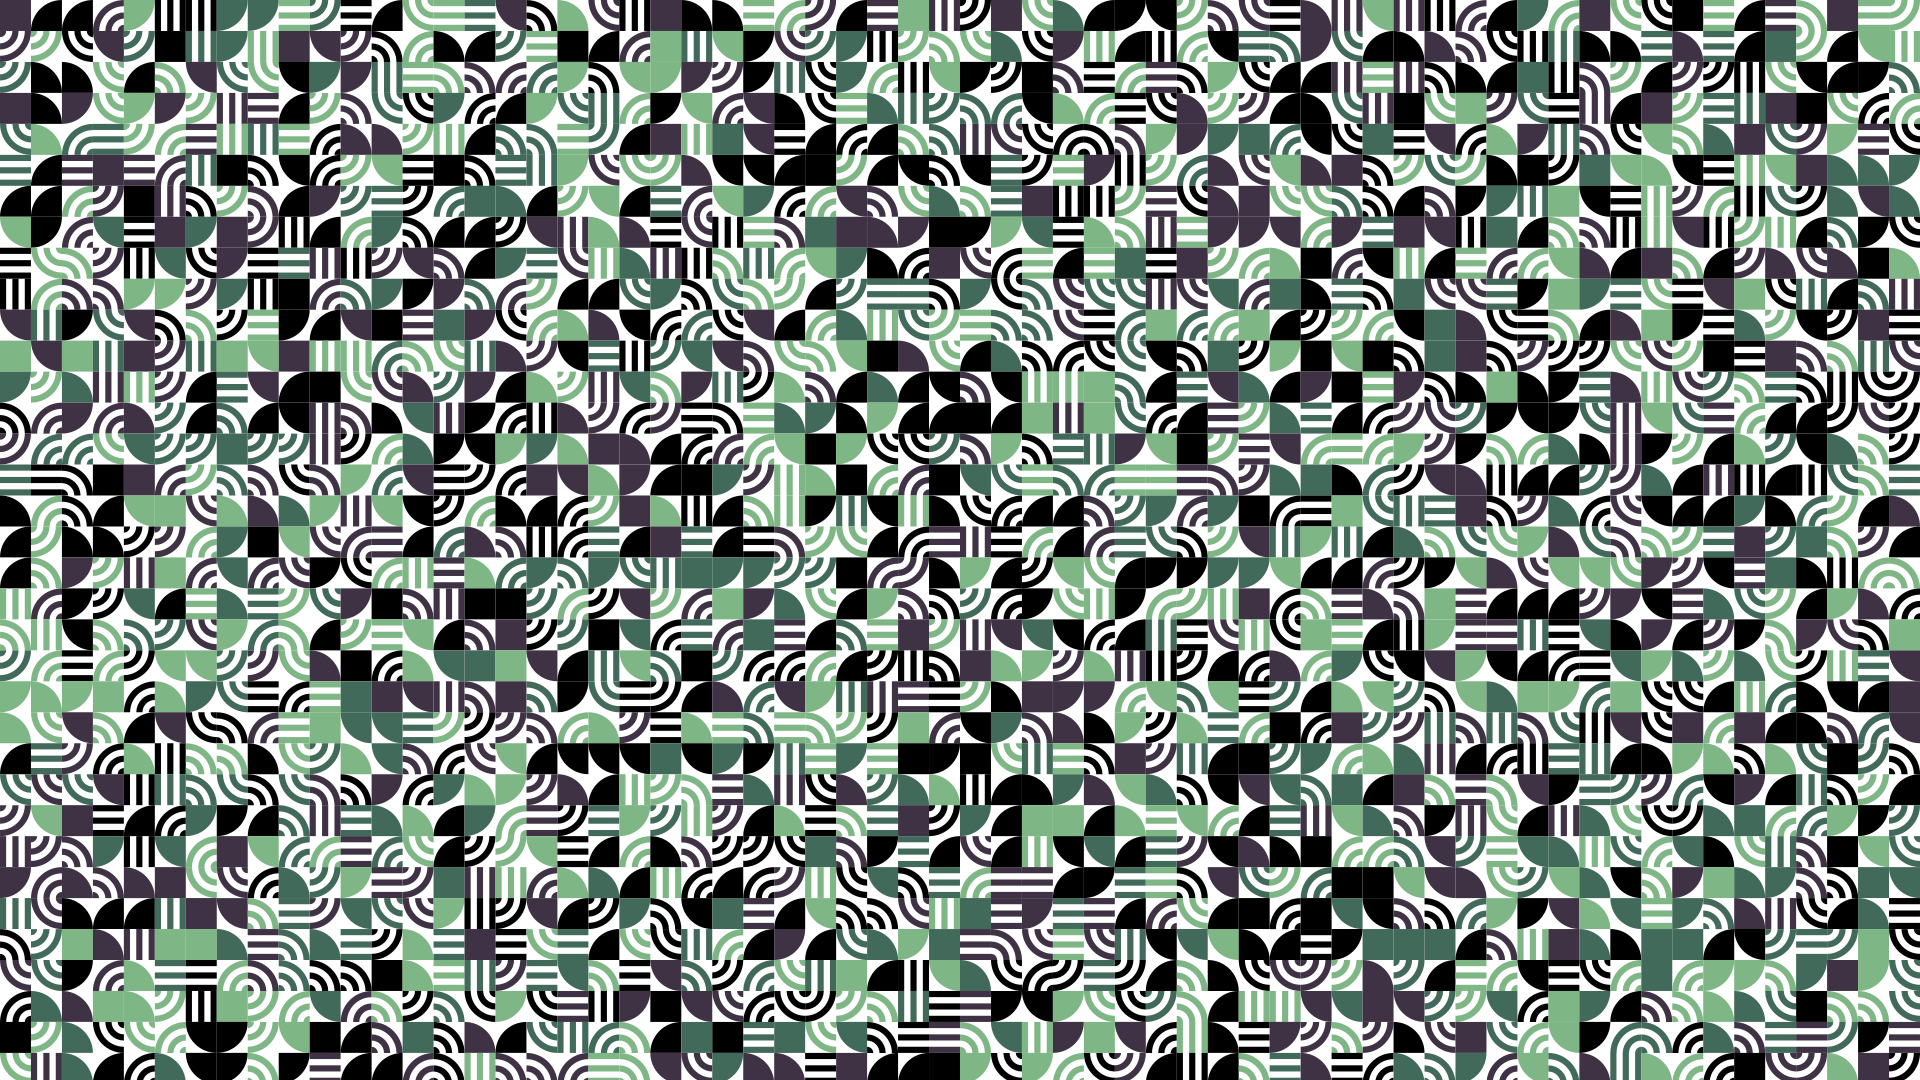
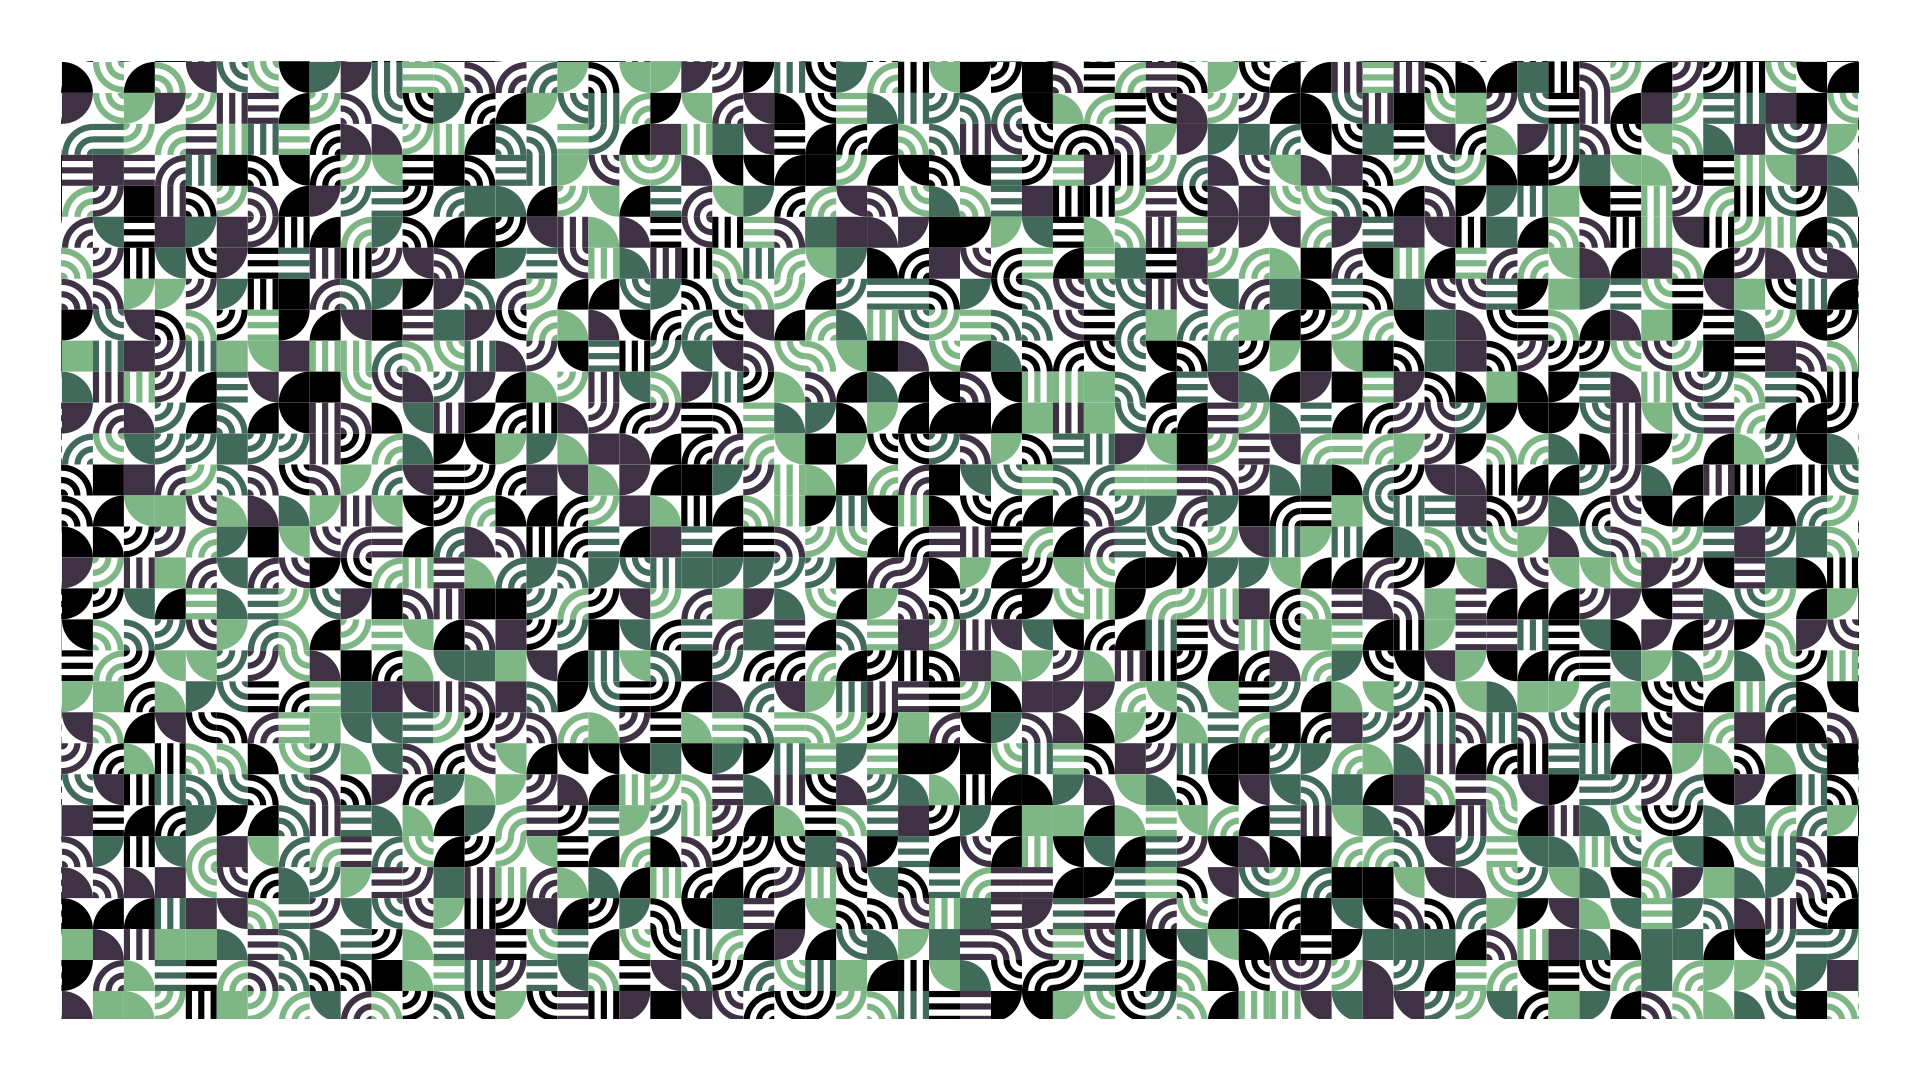
chore: update content

Changed region(s): [[0.0, 0.0, 1.0, 1.0]]

diff --git a/page/projects/pattern-generator/index.html b/page/projects/pattern-generator/index.html
@@ -85,12 +85,12 @@
             <article class="project">
                 <section class="project__img-container">
                     <img
-                        src="../../../assets/images/projects/pattern-generator/pattern-02.jpg"
+                        src="../../../assets/images/projects/pattern-generator/pattern-01.png"
                         alt=""
                         class="project__img"
                     />
                     <p class="project__img-caption">
-                        The pattern applied to posters.
+                        Initial generated pattern as the foundation for further sketches.
                     </p>
                 </section>
             </article>
